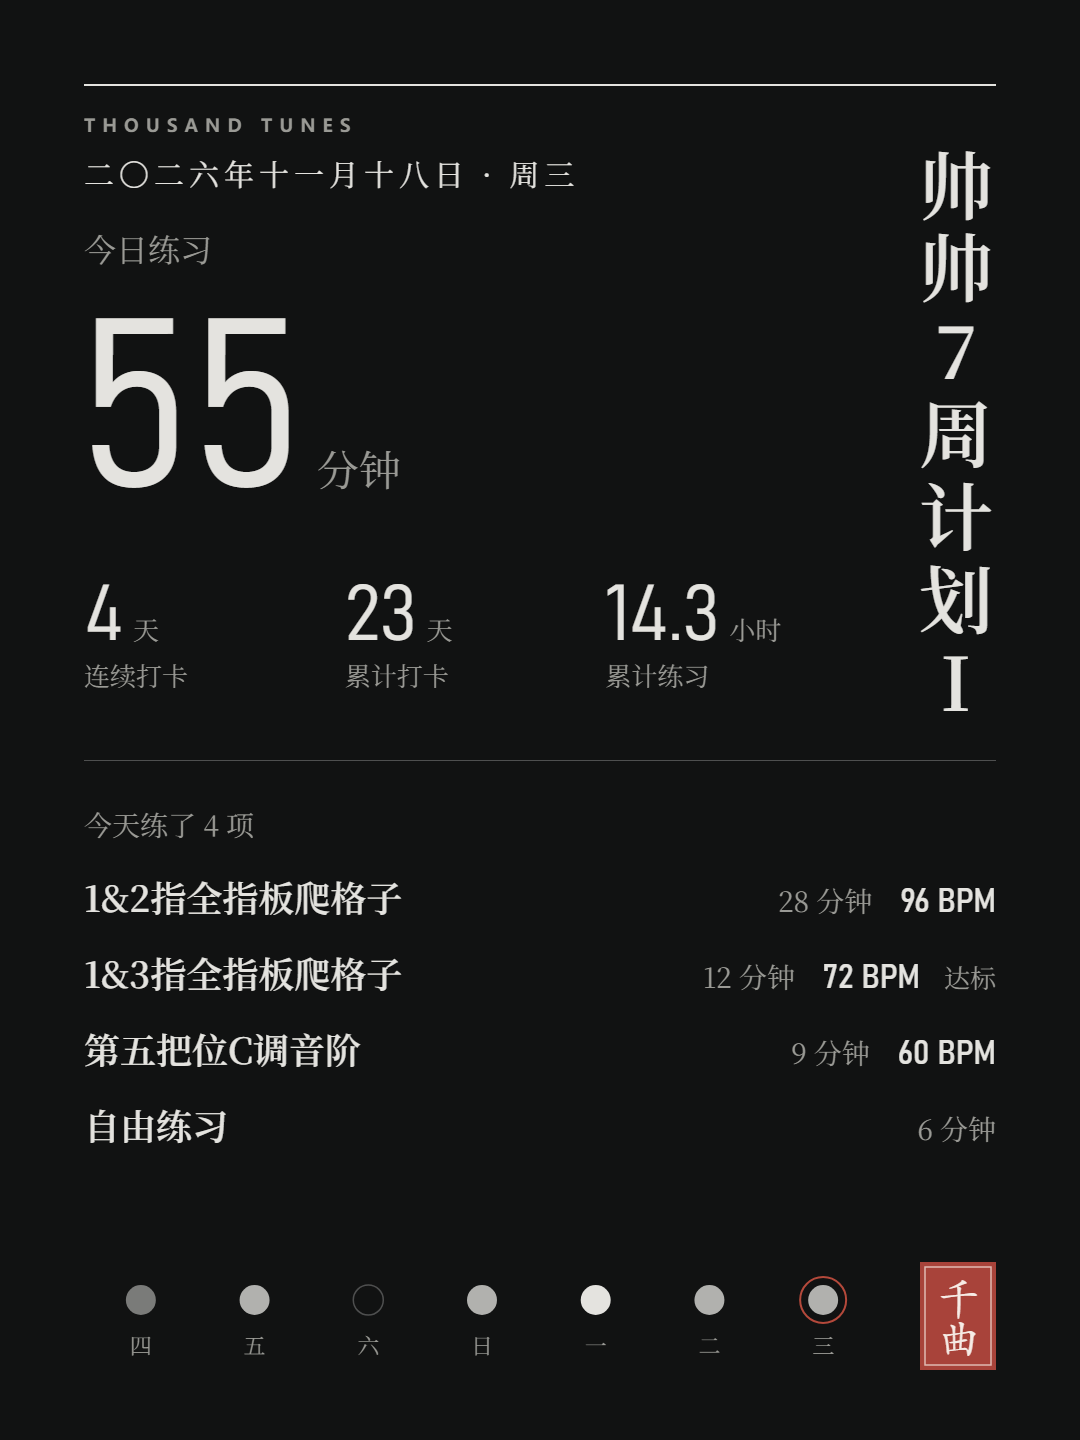
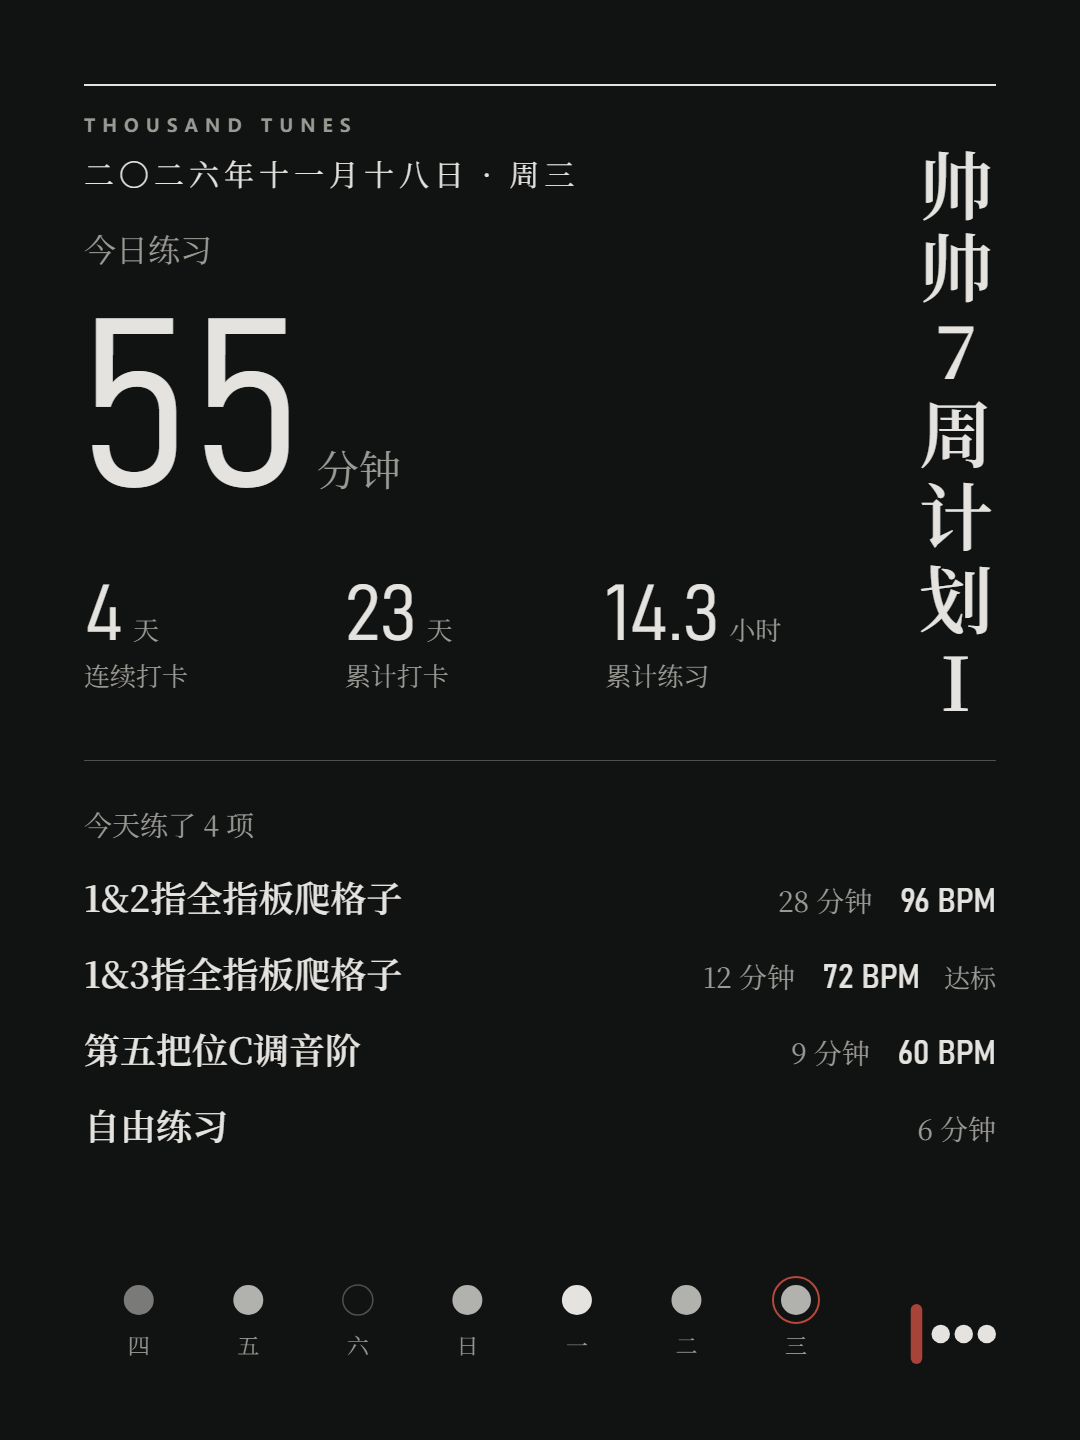
Give the practice edition its own name and mark everywhere it shows
The window was renamed some releases ago, but the program still called
itself TaktDock in the task manager, the tray and its downloads, and
wore the widget's pendulum icon.

- A new mark: one stroke and three dots. It is the icon of the program,
  the tray icon (grey at rest, cinnabar while playing), and replaces the
  seal in the window's spine, on the opening card and on the share card.
  The 16 to 32 pixel sizes are drawn separately, on the pixel grid.
- The program's product name is now the edition's own, as are the tray
  menu, its tooltip and message box titles; the practice tray menu is in
  Chinese like the rest of the edition.
- Releases are named for the edition and the download is
  ThousandTunes-<tag>-x64.exe.

The data folder and the bundle identifier keep their old names, so
existing records and settings are found where they were left.

diff --git a/src/Share.tsx b/src/Share.tsx
@@ -3,15 +3,16 @@ import { invoke } from "@tauri-apps/api/core";
 import type { Book, Journal } from "@/lib/journal";
 import { shareData, type ShareData, type Shape } from "@/lib/share";
 import { cnDate } from "@/lib/verse";
+import { MARK } from "@/Logo";
 
-interface Palette { page: string; text: string; muted: string; accent: string; line: string; seal: string; sealInk: string }
+interface Palette { page: string; text: string; muted: string; accent: string; line: string; seal: string }
 function palette(): Palette {
   const css = getComputedStyle(document.documentElement);
   const v = (name: string, fallback: string) => css.getPropertyValue(name).trim() || fallback;
   return {
     page: v("--page", "#0f0f0e"), text: v("--text-primary", "#ece7dc"), muted: v("--text-secondary", "#9a958a"),
     accent: v("--takt-from", "#b4493b"), line: v("--border-strong", "#ffffff42"),
-    seal: v("--seal", "#c8372a"), sealInk: v("--seal-ink", "#fff3e6"),
+    seal: v("--seal", "#a8433a"),
   };
 }
 
@@ -19,19 +20,20 @@ const W = 1080, PAD = 84;
 /** The title runs down the right edge; everything above the list keeps clear of it. */
 const COLUMN = 130;
 const SONG = `"Source Han Serif SC", "Noto Serif CJK SC", "Noto Serif SC", STZhongsong, "Songti SC", SimSun, serif`;
-const KAI = `STKaiti, KaiTi, "楷体", "Kaiti SC", serif`;
 const NUM = `Bahnschrift, "DIN Alternate", "Segoe UI", sans-serif`;
 const SANS = `"Microsoft YaHei UI", "Segoe UI", system-ui, sans-serif`;
 
 /** Where each band of the card sits, in card pixels. The square card is the portrait one with less air and no week. */
 const LAYOUT = {
-  portrait: { height: 1440, label: 262, number: 486, numberSize: 236, stats: 640, rule: 760, listHead: 836, row: 912, rowStep: 76, rows: 5, week: 1300, seal: [76, 108] },
-  square: { height: 1080, label: 248, number: 442, numberSize: 200, stats: 574, rule: 660, listHead: 728, row: 800, rowStep: 62, rows: 3, week: 0, seal: [56, 80] },
+  portrait: { height: 1440, label: 262, number: 486, numberSize: 236, stats: 640, rule: 760, listHead: 836, row: 912, rowStep: 76, rows: 5, week: 1300, mark: 60 },
+  square: { height: 1080, label: 248, number: 442, numberSize: 200, stats: 574, rule: 660, listHead: 728, row: 800, rowStep: 62, rows: 3, week: 0, mark: 46 },
 } as const;
 
 /** Draws the card in the colours the window is wearing. Everything is in card pixels, 1080 wide. */
 export function drawShare(canvas: HTMLCanvasElement, data: ShareData, shape: Shape) {
   const L = LAYOUT[shape], H = L.height;
+  /** One unit of the mark, and how wide that makes it. */
+  const u = L.mark / MARK.height, markWidth = MARK.width * u;
   canvas.width = W; canvas.height = H;
   const c = canvas.getContext("2d")!;
   const p = palette();
@@ -109,7 +111,7 @@ export function drawShare(canvas: HTMLCanvasElement, data: ShareData, shape: Sha
 
   // The week behind today as seven dots, inked by how long each day was; only where there is room.
   if (L.week) {
-    const gap = (W - PAD * 2 - L.seal[0] - 40) / 7;
+    const gap = (W - PAD * 2 - markWidth - 60) / 7;
     data.week.forEach((d, i) => {
       const cx = PAD + (i + .5) * gap, level = d.minutes === 0 ? 0 : d.minutes < 15 ? .28 : d.minutes < 30 ? .5 : d.minutes < 60 ? .76 : 1;
       c.beginPath(); c.arc(cx, L.week, 15, 0, Math.PI * 2);
@@ -119,12 +121,11 @@ export function drawShare(canvas: HTMLCanvasElement, data: ShareData, shape: Sha
     });
   }
 
-  // Sealed in the corner.
-  const [sw, sh] = L.seal;
-  const sx = W - PAD - sw, sy = H - 70 - sh;
-  c.fillStyle = p.seal; c.fillRect(sx, sy, sw, sh);
-  c.strokeStyle = p.sealInk; c.lineWidth = 1.5; c.globalAlpha = .7; c.strokeRect(sx + 5, sy + 5, sw - 10, sh - 10); c.globalAlpha = 1;
-  down("千曲", sx + sw / 2, sy + sh * .1, Math.round(sw * .58), sh * .4, 400, KAI, p.sealInk);
+  // Signed in the corner with the mark: the stroke in cinnabar, the dots in the card's ink.
+  const mx = W - PAD - markWidth, my = H - 76 - L.mark;
+  c.fillStyle = p.seal; c.beginPath(); c.roundRect(mx, my, MARK.bar * u, L.mark, MARK.bar * u / 2); c.fill();
+  c.fillStyle = p.text;
+  MARK.dots.forEach(cx => { c.beginPath(); c.arc(mx + cx * u, my + L.mark / 2, MARK.dot * u, 0, Math.PI * 2); c.fill(); });
 }
 
 const pngOf = (canvas: HTMLCanvasElement) => new Promise<Blob>((resolve, reject) => canvas.toBlob(b => b ? resolve(b) : reject(new Error("图片生成失败")), "image/png"));

diff --git a/src/main-window.css b/src/main-window.css
@@ -79,17 +79,17 @@ html.td-main-page, .td-main-page body, .td-main-page #root { background: var(--p
 .td-splash p span { display: block; }
 .td-splash p span + span { padding-top: 2em; }
 .td-splash small { display: block; margin-right: 18px; padding-top: 200px; font-size: 12px; letter-spacing: .24em; }
-.td-splash .td-seal { display: block; width: fit-content; height: fit-content; margin: auto 26px 0 0; padding: 9px 6px; font-size: 22px; }
+.td-splash .td-logo { width: 46px; margin: auto 22px 4px 0; }
 .td-splash em { display: block; margin-right: 12px; font: 600 9px/1 var(--sans); font-style: normal; letter-spacing: .42em; color: var(--text-secondary); }
 @keyframes td-splash { 0%, 72% { opacity: 1; visibility: visible; } 100% { opacity: 0; visibility: hidden; } }
 @media (prefers-reduced-motion: reduce) { .td-splash { animation-duration: 1.2s; } }
 
-/* The seal: white script cut out of cinnabar, read downwards. */
-.td-seal { writing-mode: vertical-rl; display: inline-block; padding: 8px 5px; background: var(--seal); color: var(--seal-ink); font: 400 20px/1 var(--kai); font-style: normal; letter-spacing: .1em; text-decoration: none; }
+/* The mark: a cinnabar stroke and three dots in the colour of the text around it. */
+.td-logo { display: block; width: 36px; height: auto; color: var(--text-primary); }
 
-/* The spine: the seal, then the pages, written downwards */
+/* The spine: the mark, then the pages, written downwards */
 .td-rail { min-height: 0; display: flex; flex-direction: column; align-items: center; gap: 20px; padding: 20px 0 16px; border-right: 1px solid var(--border); overflow: hidden auto; scrollbar-width: none; }
-.td-brand { display: grid; justify-items: center; gap: 12px; }
+.td-brand { display: grid; justify-items: center; padding: 6px 0 4px; }
 .td-mode-nav { display: flex; flex-direction: column; align-items: center; gap: 2px; }
 .td-mode-nav button { position: relative; writing-mode: vertical-rl; border: 0; background: none; padding: 16px 12px 10px; font: 400 17px/1 var(--song); letter-spacing: .1em; color: var(--text-secondary); }
 .td-mode-nav button:hover { color: var(--text-primary); }

diff --git a/tests/journal.spec.ts b/tests/journal.spec.ts
@@ -442,14 +442,14 @@ test("the name and its verse greet the player, then stay on the home page", asyn
   await installTauriMock(page);
   await page.goto("/?view=main");
   const card = page.locator(".td-splash");
-  await expect(card).toHaveText(/^千曲操千曲而后晓声，观千剑而后识器。刘勰《文心雕龙·知音》知音THOUSAND TUNES · 1\.0\.0-practice\.\d+$/);
+  await expect(card).toHaveText(/^千曲操千曲而后晓声，观千剑而后识器。刘勰《文心雕龙·知音》THOUSAND TUNES · 1\.0\.0-practice\.\d+$/);
   // It is decoration: it cannot be clicked or read out, and it goes away by itself.
   expect(await card.evaluate(el => [getComputedStyle(el).pointerEvents, el.getAttribute("aria-hidden")])).toEqual(["none", "true"]);
   await page.getByRole("tab", { name: "教材" }).click();
   await page.getByRole("tab", { name: "主页" }).click();
   await expect(card).toBeHidden();
   await expect(page.getByRole("region", { name: "主页" }).locator(".st-verse")).toHaveText("操千曲而后晓声，观千剑而后识器。");
-  await expect(page.locator(".td-brand")).toHaveText("千曲");
+  await expect(page.locator(".td-brand").getByRole("img", { name: "千曲" })).toBeVisible();
 });
 
 test("the header dates the day in characters", async ({ page }) => {

diff --git a/src/MainWindow.tsx b/src/MainWindow.tsx
@@ -3,6 +3,7 @@ import { invoke } from "@tauri-apps/api/core";
 import { listen } from "@tauri-apps/api/event";
 import Focus from "@/Focus";
 import Library from "@/Library";
+import Logo from "@/Logo";
 import Presets, { SUBDIVISIONS } from "@/Presets";
 import RhythmCoach from "@/RhythmCoach";
 import Stats from "@/Stats";
@@ -195,12 +196,12 @@ export default function MainWindow() {
         <s className="td-strings" />
         <p><span>{VERSE_LINES[0]}</span><span>{VERSE_LINES[1]}</span></p>
         <small>{VERSE_SOURCE}</small>
-        <i className="td-seal">知音</i>
+        <Logo />
         <em>THOUSAND TUNES · {practiceConf.version}</em>
       </div>
     </div>
     <aside className="td-rail">
-      <div className="td-brand" title={`${VERSE}——${VERSE_SOURCE}`}><b className="td-seal">千曲</b></div>
+      <div className="td-brand" title={`${VERSE}——${VERSE_SOURCE}`}><Logo /></div>
       <nav className="td-mode-nav" role="tablist" aria-label="页面" aria-orientation="vertical">
         {PAGES.map(([id, label]) => <button key={id} role="tab" aria-selected={page === id} onClick={() => setPage(id)}>{label}</button>)}
       </nav>

diff --git a/src/Logo.tsx b/src/Logo.tsx
@@ -1,0 +1,14 @@
+/** The mark's proportions, shared with the share card, which draws it on a canvas. Units are thirtieths of its height. */
+export const MARK = { width: 42.625, height: 30, bar: 5.75, dot: 4.625, dots: [15, 26.5, 38] } as const;
+
+/**
+ * The mark without the icon's tile: one stroke and three dots. A thousand
+ * written 1 000, a bar of four with its downbeat, a string and its inlays.
+ * The stroke is cinnabar; the dots take the text colour of where it stands.
+ */
+export default function Logo({ className = "" }: { className?: string }) {
+  return <svg className={`td-logo ${className}`} viewBox={`0 0 ${MARK.width} ${MARK.height}`} role="img" aria-label="千曲">
+    <rect width={MARK.bar} height={MARK.height} rx={MARK.bar / 2} fill="var(--seal)" />
+    {MARK.dots.map(cx => <circle key={cx} cx={cx} cy={MARK.height / 2} r={MARK.dot} fill="currentColor" />)}
+  </svg>;
+}

diff --git a/src-tauri/src/tray.rs b/src-tauri/src/tray.rs
@@ -47,8 +47,15 @@ pub struct MenuHandle {
     pub retired: RwLock<Option<Menu<Wry>>>,
 }
 
+#[cfg(not(feature = "practice-build"))]
 const ICON_IDLE: &[u8] = include_bytes!("../icons/tray-idle.png");
+#[cfg(not(feature = "practice-build"))]
 const ICON_PLAYING: &[u8] = include_bytes!("../icons/tray-playing.png");
+// The practice edition wears its own mark, already in its own colours.
+#[cfg(feature = "practice-build")]
+const ICON_IDLE: &[u8] = include_bytes!("../icons/qianqu/tray-idle.png");
+#[cfg(feature = "practice-build")]
+const ICON_PLAYING: &[u8] = include_bytes!("../icons/qianqu/tray-playing.png");
 
 pub fn setup(app: &AppHandle) -> tauri::Result<()> {
     app.manage(MenuHandle {
@@ -301,14 +308,14 @@ fn build_menu(app: &AppHandle) -> tauri::Result<Menu<Wry>> {
 
     if cfg!(feature = "practice-build") {
         return MenuBuilder::new(app)
-            .item(&MenuItemBuilder::with_id("practice:manage", "Open TaktDock").build(app)?)
+            .item(&MenuItemBuilder::with_id("practice:manage", "打开千曲").build(app)?)
             .item(
-                &MenuItemBuilder::with_id("play", if running { "Stop" } else { "Play" })
+                &MenuItemBuilder::with_id("play", if running { "停止" } else { "开始" })
                     .build(app)?,
             )
             .separator()
-            .item(&MenuItemBuilder::with_id("diag:report", "Save diagnostic report").build(app)?)
-            .item(&MenuItemBuilder::with_id("exit", "Exit").build(app)?)
+            .item(&MenuItemBuilder::with_id("diag:report", "保存诊断报告").build(app)?)
+            .item(&MenuItemBuilder::with_id("exit", "退出").build(app)?)
             .build();
     }
 
@@ -863,7 +870,9 @@ pub fn refresh_badge(app: &AppHandle) {
     let key = (running, rgb);
     let changed = LAST_ICON.lock().replace(key) != Some(key);
     if changed {
-        let icon = if running {
+        let icon = if running && cfg!(feature = "practice-build") {
+            Image::from_bytes(ICON_PLAYING)
+        } else if running {
             tinted(ICON_PLAYING, rgb)
         } else {
             Image::from_bytes(ICON_IDLE)
@@ -877,20 +886,27 @@ pub fn refresh_badge(app: &AppHandle) {
 
 fn tooltip(app: &AppHandle) -> String {
     let Some(state) = app.try_state::<Arc<AppState>>() else {
-        return "TaktDock".into();
+        return crate::APP_NAME.into();
     };
     let m = state.settings.get().metronome;
-    let mut text = format!(
-        "TaktDock, {} bpm {}/{}, {}",
-        m.bpm,
-        m.beats_per_bar,
-        m.beat_unit,
-        if state.engine.is_running() {
-            "playing"
-        } else {
-            "stopped"
-        }
-    );
+    let running = state.engine.is_running();
+    let mut text = if cfg!(feature = "practice-build") {
+        format!(
+            "千曲 · {} BPM {}/{} · {}",
+            m.bpm,
+            m.beats_per_bar,
+            m.beat_unit,
+            if running { "播放中" } else { "已停止" }
+        )
+    } else {
+        format!(
+            "TaktDock, {} bpm {}/{}, {}",
+            m.bpm,
+            m.beats_per_bar,
+            m.beat_unit,
+            if running { "playing" } else { "stopped" }
+        )
+    };
     if let Some(problem) = state.engine.status().problem {
         text.push('\n');
         text.push_str(&problem);

diff --git a/src-tauri/src/lib.rs b/src-tauri/src/lib.rs
@@ -1,5 +1,13 @@
 //! TaktDock, a metronome that lives on the taskbar.
 
+/// What the program calls itself wherever a person reads it: the tray, a
+/// message box, a report. The practice edition goes by its own name.
+pub const APP_NAME: &str = if cfg!(feature = "practice-build") {
+    "千曲"
+} else {
+    "TaktDock"
+};
+
 pub mod audio;
 pub mod autostart;
 pub mod coach;
@@ -186,7 +194,7 @@ fn install_panic_hook() {
         let _ = std::fs::write(
             path,
             format!(
-                "{}\nTaktDock {} on {}\nup {}s\nthread {thread}\npanic at {location}\n{message}\n\nlast log lines\n{}\n",
+                "{}\n{APP_NAME} {} on {}\nup {}s\nthread {thread}\npanic at {location}\n{message}\n\nlast log lines\n{}\n",
                 chrono::Utc::now().to_rfc3339(),
                 env!("CARGO_PKG_VERSION"),
                 desktop(),
@@ -276,7 +284,7 @@ pub fn run() {
     init_logging();
     install_panic_hook();
     tracing::info!(
-        "TaktDock {} starting, data in {}",
+        "{APP_NAME} {} starting, data in {}",
         env!("CARGO_PKG_VERSION"),
         settings::data_dir().display()
     );
@@ -463,7 +471,7 @@ pub fn run() {
             }
 
             if let Some(note) = recovered {
-                std::thread::spawn(move || diagnostics::message_box("TaktDock", note));
+                std::thread::spawn(move || diagnostics::message_box(APP_NAME, note));
             }
 
             if std::env::args().any(|a| a == UPDATE_FLAG) {

diff --git a/src-tauri/src/diagnostics.rs b/src-tauri/src/diagnostics.rs
@@ -28,7 +28,7 @@ pub fn save_report(app: &AppHandle, reveal: bool) {
                 crate::shell::open(&data_dir());
             }
         }
-        Err(e) => message_box("TaktDock", &format!("The report could not be written: {e}")),
+        Err(e) => message_box(crate::APP_NAME, &format!("The report could not be written: {e}")),
     }
 }
 
@@ -39,7 +39,8 @@ fn report(state: &AppState) -> String {
 
     let mut out = String::new();
     out.push_str(&format!(
-        "TaktDock diagnostic report\n{}\n\n",
+        "{} diagnostic report\n{}\n\n",
+        crate::APP_NAME,
         Utc::now().to_rfc3339()
     ));
     out.push_str(&format!("version: {}\n", env!("CARGO_PKG_VERSION")));

diff --git a/README.md b/README.md
@@ -1,3 +1,5 @@
+<img src="src-tauri/icons/qianqu/128x128@2x.png" width="84" alt="千曲的图标">
+
 # 千曲 · Thousand Tunes
 
 > 操千曲而后晓声，观千剑而后识器。——《文心雕龙·知音》
@@ -24,7 +26,7 @@ Windows 上的练琴记录本，带一台节拍器。选一条练习，按下开
 - **分享图**：把当天的练习生成一张卡片，竖版或方形，可复制或保存。
 - **跟拍**：接上吉他，显示每一下拨弦是早了还是晚了。只判断时机，不判断音高。
 - **节拍器**：30–300 BPM、拍号、细分、音色、TAP 测速、预设和全局快捷键。空格键开始和停止。
-- **配色**：八套，在左下角切换。
+- **配色和音量**：在左下角，点一下弹出。配色有八套。
 
 内置教材大纲：帅帅《零基础入门电吉他 7 周自学计划 1》。只有标题、页码、每日时长和速度目标，不含正文和曲谱。
 
@@ -33,6 +35,8 @@ Windows 上的练琴记录本，带一台节拍器。选一条练习，按下开
 练习记录在 `%APPDATA%\TaktDock-Practice\journal.json`，备份这个文件即可。保存的分享图在“图片\千曲”。
 
 播放时约每 10 秒写入一次，播放中直接关掉窗口最多丢失最后 10 秒。
+
+图标是一竖加三个圆点：写成数字是 1 000，也是一小节四拍里的重拍和另外三拍。源文件在 `src-tauri/icons/qianqu/`。
 
 ## 添加教材
 
@@ -63,7 +67,7 @@ npm test               # 界面测试
 npm run test:rust      # 后端测试
 ```
 
-发布：改 `src-tauri/tauri.practice.conf.json` 里的版本号，推送同名标签（如 `1.0.0-practice.10`），GitHub Actions 会测试、构建并发布。
+发布：改 `src-tauri/tauri.practice.conf.json` 里的版本号，推送同名标签（如 `1.0.0-practice.13`），GitHub Actions 会测试、构建并发布。
 
 ## 原项目
 
